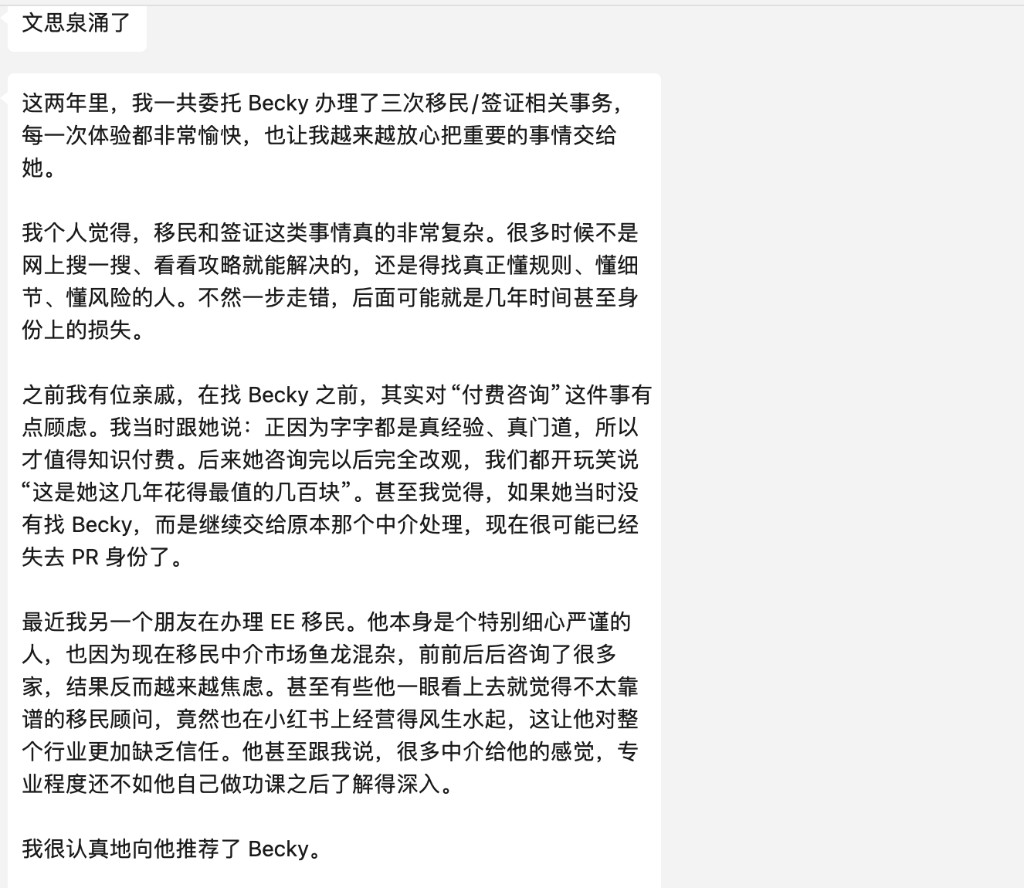
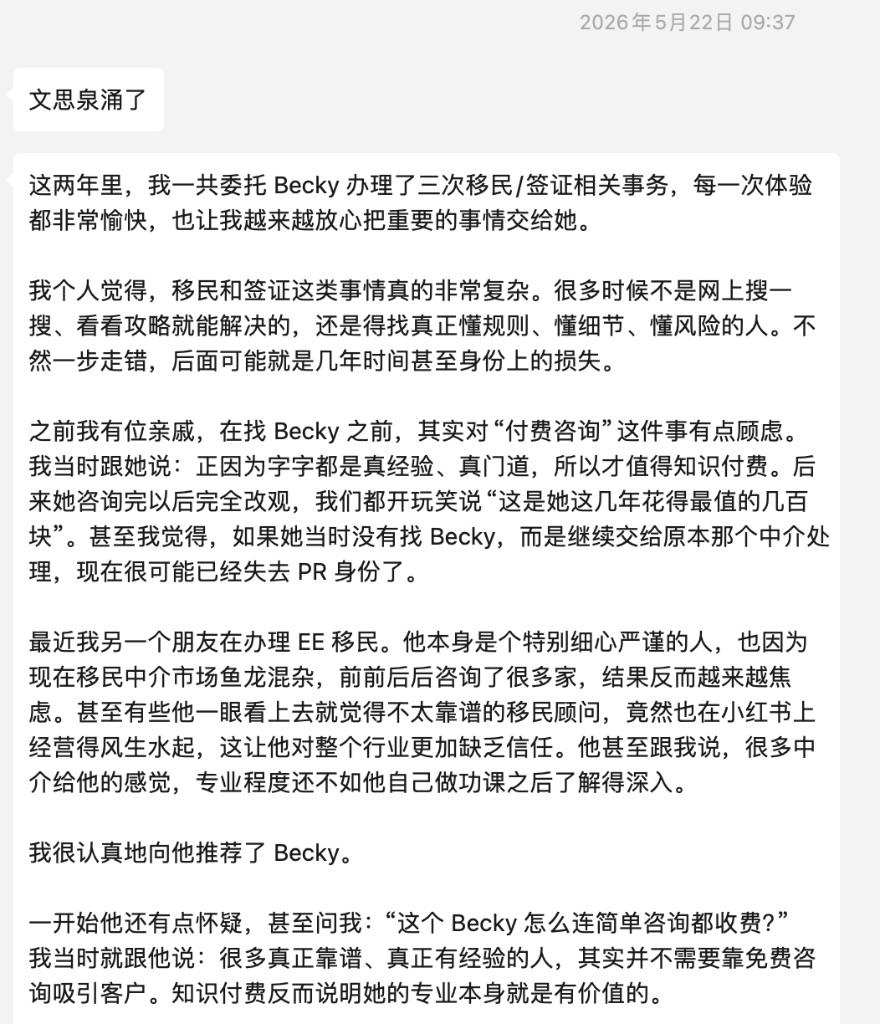
fix: fix some UI details.

diff --git a/src/lib/services-data.ts b/src/lib/services-data.ts
@@ -15,7 +15,7 @@ export const SERVICE_CATEGORIES: ServiceCategory[] = [
       { code: "CS02", name: "付费咨询 · 紧急", en: "Consultation - Emergency", desc: "持牌移民顾问 24 小时内响应。" },
       { code: "CS03", name: "移民申请检查", en: "Review Immigration Application" },
       { code: "CS04", name: "中小学申请咨询", en: "Primary & Secondary Admission" },
-      { code: "CS05", name: "大学 / 学院申请咨询", en: "College / University Admission" },
+      { code: "CS05", name: "大学 / 学院申请咨询", en: "University / College Admission" },
     ],
   },
   {
@@ -47,13 +47,16 @@ export const SERVICE_CATEGORIES: ServiceCategory[] = [
     items: [
       { code: "WP01", name: "毕业工签 / 续签", en: "PGWP / Renewal" },
       { code: "WP02", name: "配偶开放工签", en: "Spouse Open Work Permit" },
-      { code: "WP03", name: "打工度假工签", en: "Working Holiday Work Permit" },
-      { code: "WP04", name: "青年专业人士工签", en: "Young Professional Work Permit" },
-      { code: "WP05", name: "桥梁开放式工签", en: "Bridging Open Work Permit" },
-      { code: "WP06", name: "恢复工人身份", en: "Restore your status as a Worker" },
-      { code: "WP07", name: "封闭式工签", en: "Closed Work Permit" },
-      { code: "WP08", name: "跨国企业内调工签", en: "ICT Intra-Company Transfer Work Permit" },
-      { code: "WP09", name: "国际自由贸易协定工签", en: "Work Permit based on International Free Trade Agreements" },
+      { code: "WP03", name: "桥梁开放式工签", en: "Bridging Open Work Permit" },
+      { code: "WP04", name: "恢复工人身份", en: "Restore your status as a Worker" },
+      {
+        code: "WP05",
+        name: "青年交流项目/打工度假/青年专业人士等",
+        en: "International Experience Canada (IEC)/Working Holiday/Young Professionals...",
+      },
+      { code: "WP06", name: "封闭式工签", en: "Closed Work Permit" },
+      { code: "WP07", name: "跨国企业内调工签", en: "ICT Intra-Company Transfer Work Permit" },
+      { code: "WP08", name: "国际自由贸易协定工签", en: "Work Permit based on International Free Trade Agreements" },
     ],
   },
   {
@@ -62,11 +65,10 @@ export const SERVICE_CATEGORIES: ServiceCategory[] = [
     subtitle: "Permanent Residency",
     items: [
       { code: "PR01", name: "联邦快速通道", en: "Express Entry", desc: "加拿大经验类 (CEC) / 联邦技术移民 (FSW) / 省提名衔接联邦 PR。" },
-      { code: "PR02", name: "省提名（魁北克省除外）", en: "Provincial Nominee Program (except Quebec)", desc: "含 EE 衔接省提名与纸质省提名 (base / non-EE)。" },
+      { code: "PR02", name: "省提名（魁北克省除外）", en: "Provincial Nominee Program (except Quebec)", desc: "含省提名与non-EE联邦申请。" },
       { code: "PR03", name: "家庭团聚类申请", en: "Family Sponsorship", desc: "夫妻、伴侣、子女、父母、祖父母团聚；含孤独加拿大人计划担保亲属。" },
       { code: "PR04", name: "其他联邦移民项目", en: "Other Federal Immigration Programs", desc: "联邦自雇、投资移民、护理类移民等。" },
-      { code: "PR05", name: "人道主义与同情类", en: "Humanitarian and Compassionate", desc: "含香港居民永居途径 (HK Pathway Stream A & B)、孤独父母祖父母等。" },
-      { code: "PR06", name: "难民", en: "Refugee" },
+      { code: "PR05", name: "难民", en: "Refugee" },
     ],
   },
   {

diff --git a/src/lib/testimonials-data.ts b/src/lib/testimonials-data.ts
@@ -1,6 +1,5 @@
 import jiaqi1 from "@/assets/testimonials/jiaqi-1.png";
 import jiaqi2 from "@/assets/testimonials/jiaqi-2.png";
-import jiaqi3 from "@/assets/testimonials/jiaqi-3.png";
 import sherry1 from "@/assets/testimonials/sherry-1.png";
 import sherry2 from "@/assets/testimonials/sherry-2.png";
 import edward1 from "@/assets/testimonials/edward-1.png";
@@ -21,12 +20,12 @@ export const TESTIMONIALS: Testimonial[] = [
   {
     slug: "jiaqi",
     author: "Jiaqi",
-    headline: "三年三次合作，每一次都让我很放心",
+    headline: "两年三次合作，每一次都让我很放心",
     excerpt:
       "这两年里，我一共委托 Becky 办理了三次移民/签证相关事务，每一次体验都非常愉快，也让我越来越放心把重要的事情交给她。",
-    services: ["付费咨询", "签证", "移民"],
+    services: ["付费咨询", "临时居民签证 (TR)", "永久居民 (PR)"],
     timeline: "2024-2026",
-    screenshots: [jiaqi1, jiaqi2, jiaqi3],
+    screenshots: [jiaqi1, jiaqi2],
     body: [
       "这两年里，我一共委托 Becky 办理了三次移民/签证相关事务，每一次体验都非常愉快，也让我越来越放心把重要的事情交给她。",
       "我个人觉得，移民和签证这类事情真的非常复杂。很多时候不是网上搜一搜、看看攻略就能解决的，还是得找真正懂规则、懂细节、懂风险的人。不然一步走错，后面可能就是几年时间甚至身份上的损失。",
@@ -52,7 +51,7 @@ export const TESTIMONIALS: Testimonial[] = [
     headline: "从学签到 PR，四年一路陪伴",
     excerpt:
       "我和Becky相识于2022年，那时候我刚刚拿到加拿大的学校offer，需要申请学签，但那时候的我对加拿大的签证几乎一无所知。",
-    services: ["学签", "PGWP", "PR"],
+    services: ["学习许可 (SP)", "毕业工签 (PGWP)", "永久居民 (PR)"],
     timeline: "2022 – 2026",
     screenshots: [sherry1, sherry2],
     body: [
@@ -67,10 +66,10 @@ export const TESTIMONIALS: Testimonial[] = [
   {
     slug: "edward",
     author: "Edward L.",
-    headline: "从 PNP 到父母签证，近三年的踏实陪伴",
+    headline: "从 PNP 到父母签证，安心保障每一步",
     excerpt:
       "第一次和Becky联系咨询是将近3年前了，那时候刚拿到Offer，学签和配偶工签都审好了，但是PR等等后续的规划还有各种各样的疑惑。",
-    services: ["PNP", "联邦 PR", "父母旅游签证"],
+    services: ["省提名 (PNP)", "永久居民 (PR)", "临时居民签证 (TR)"],
     timeline: "2023-2026",
     screenshots: [edward1, edward2],
     body: [